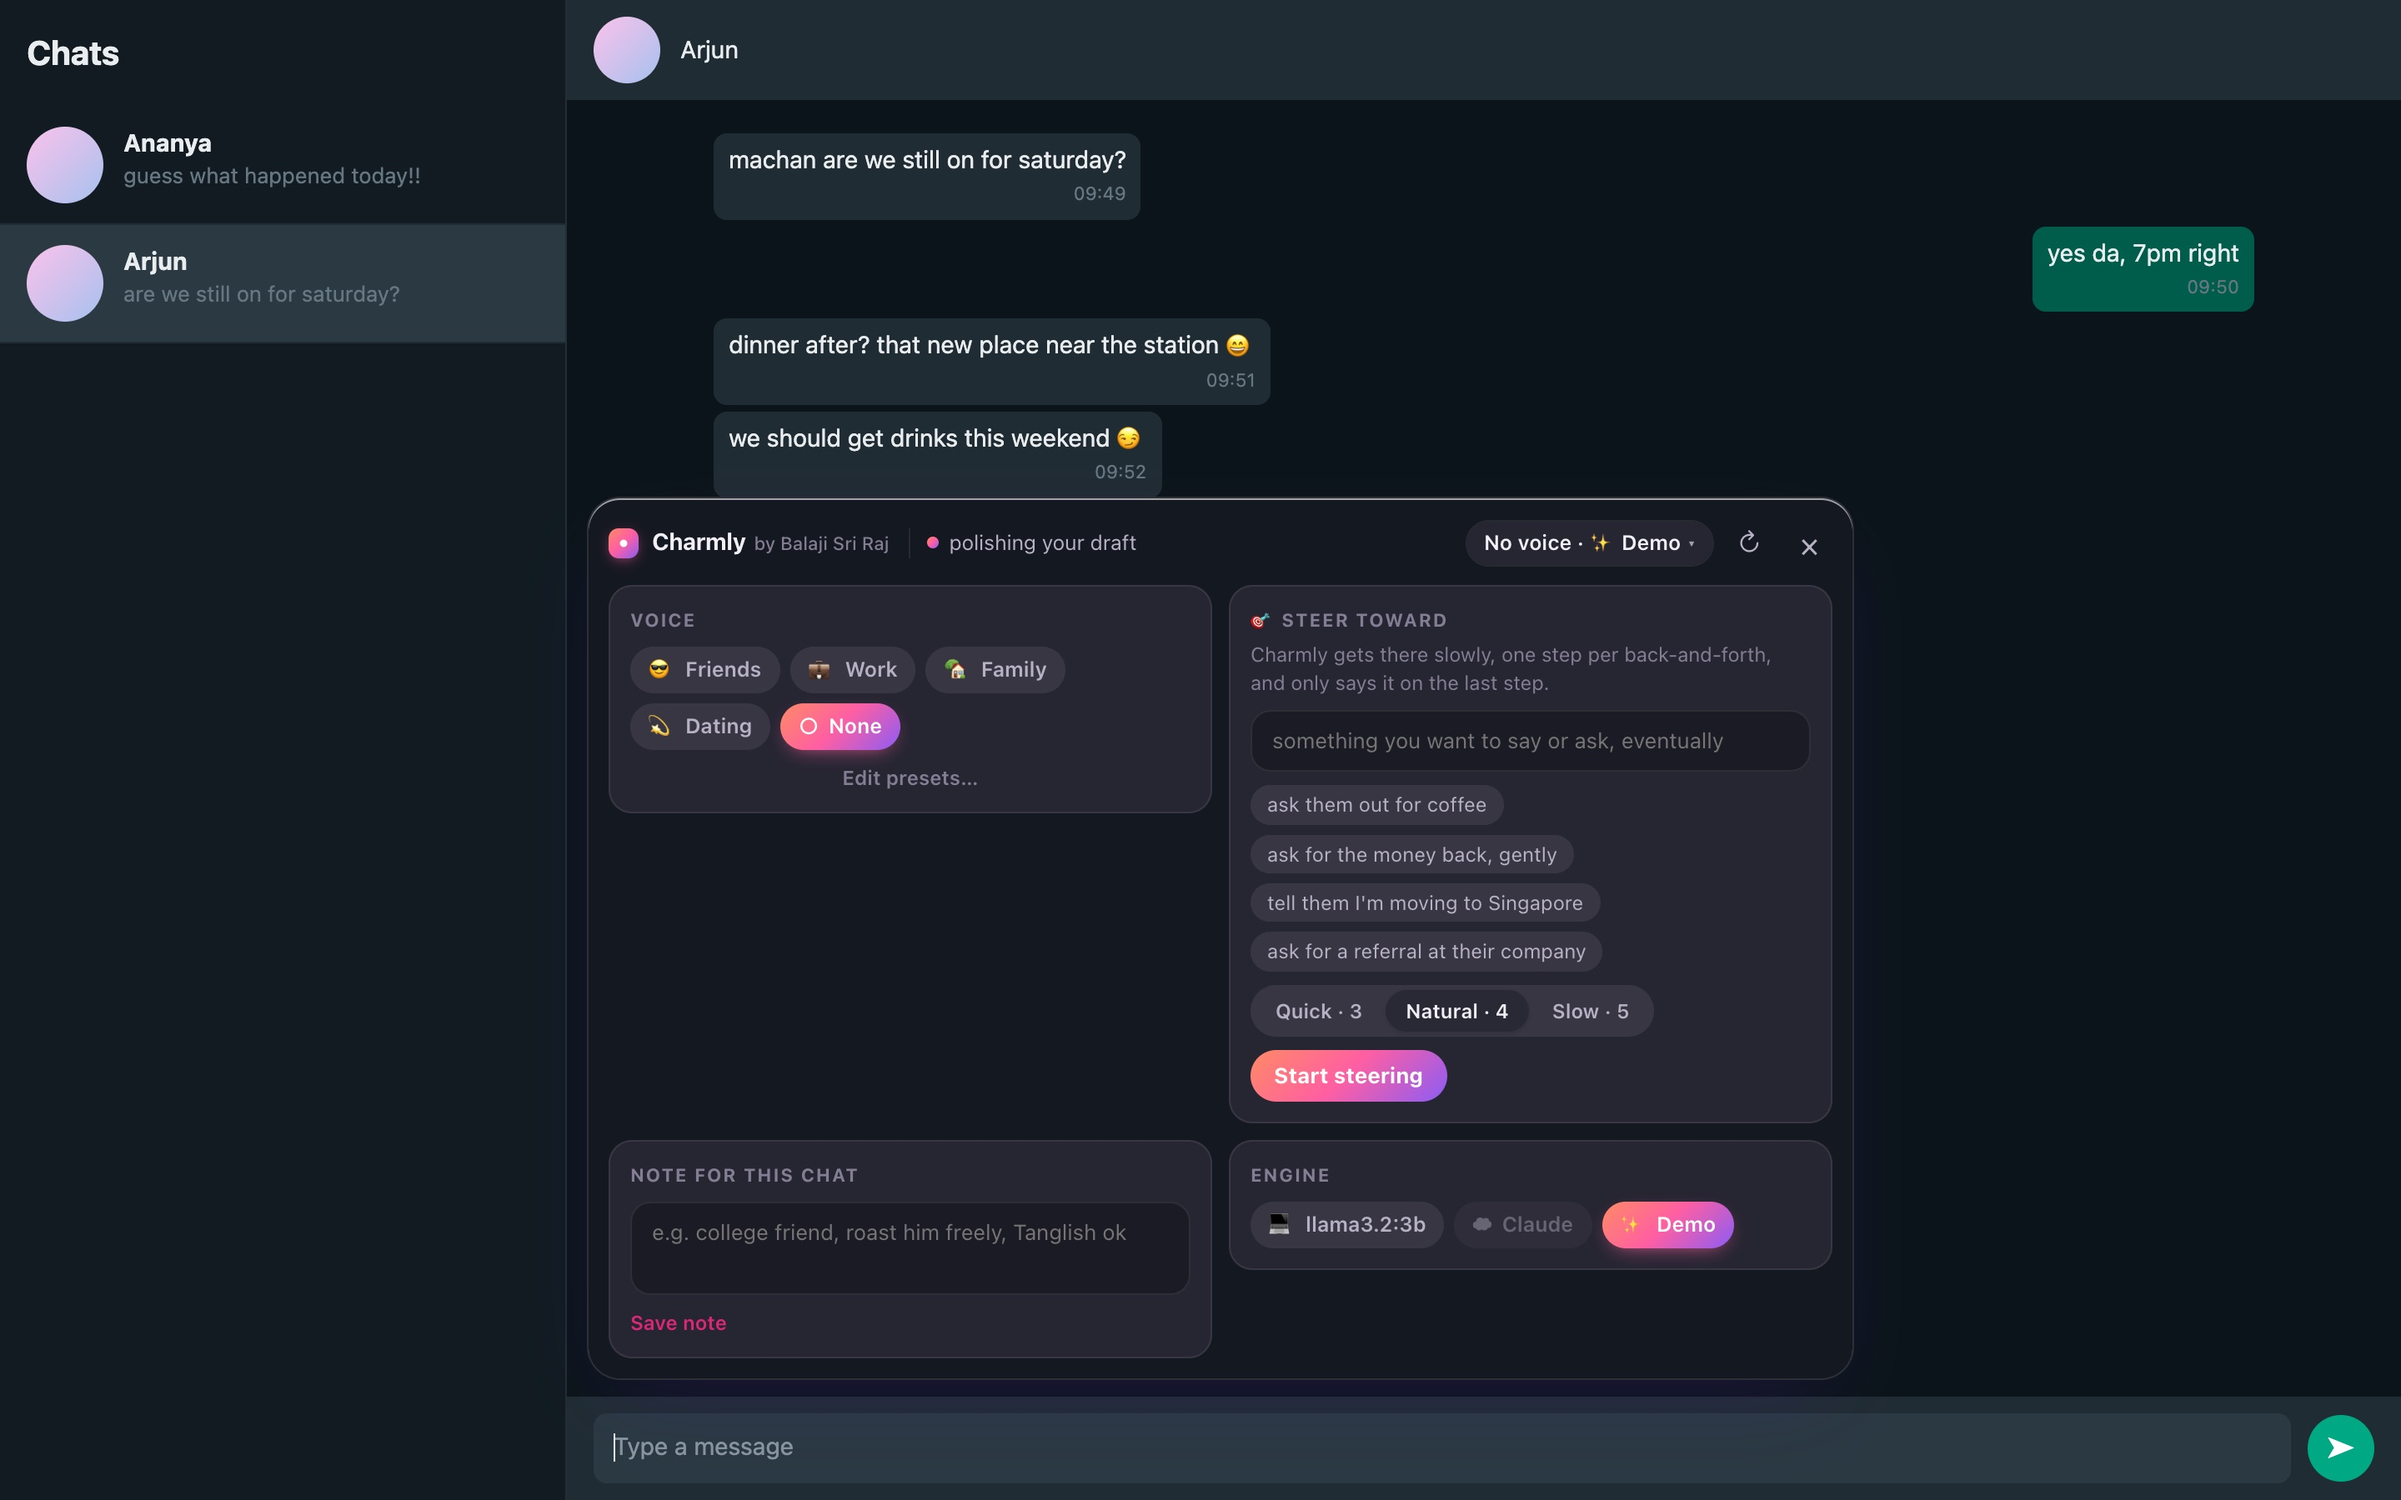
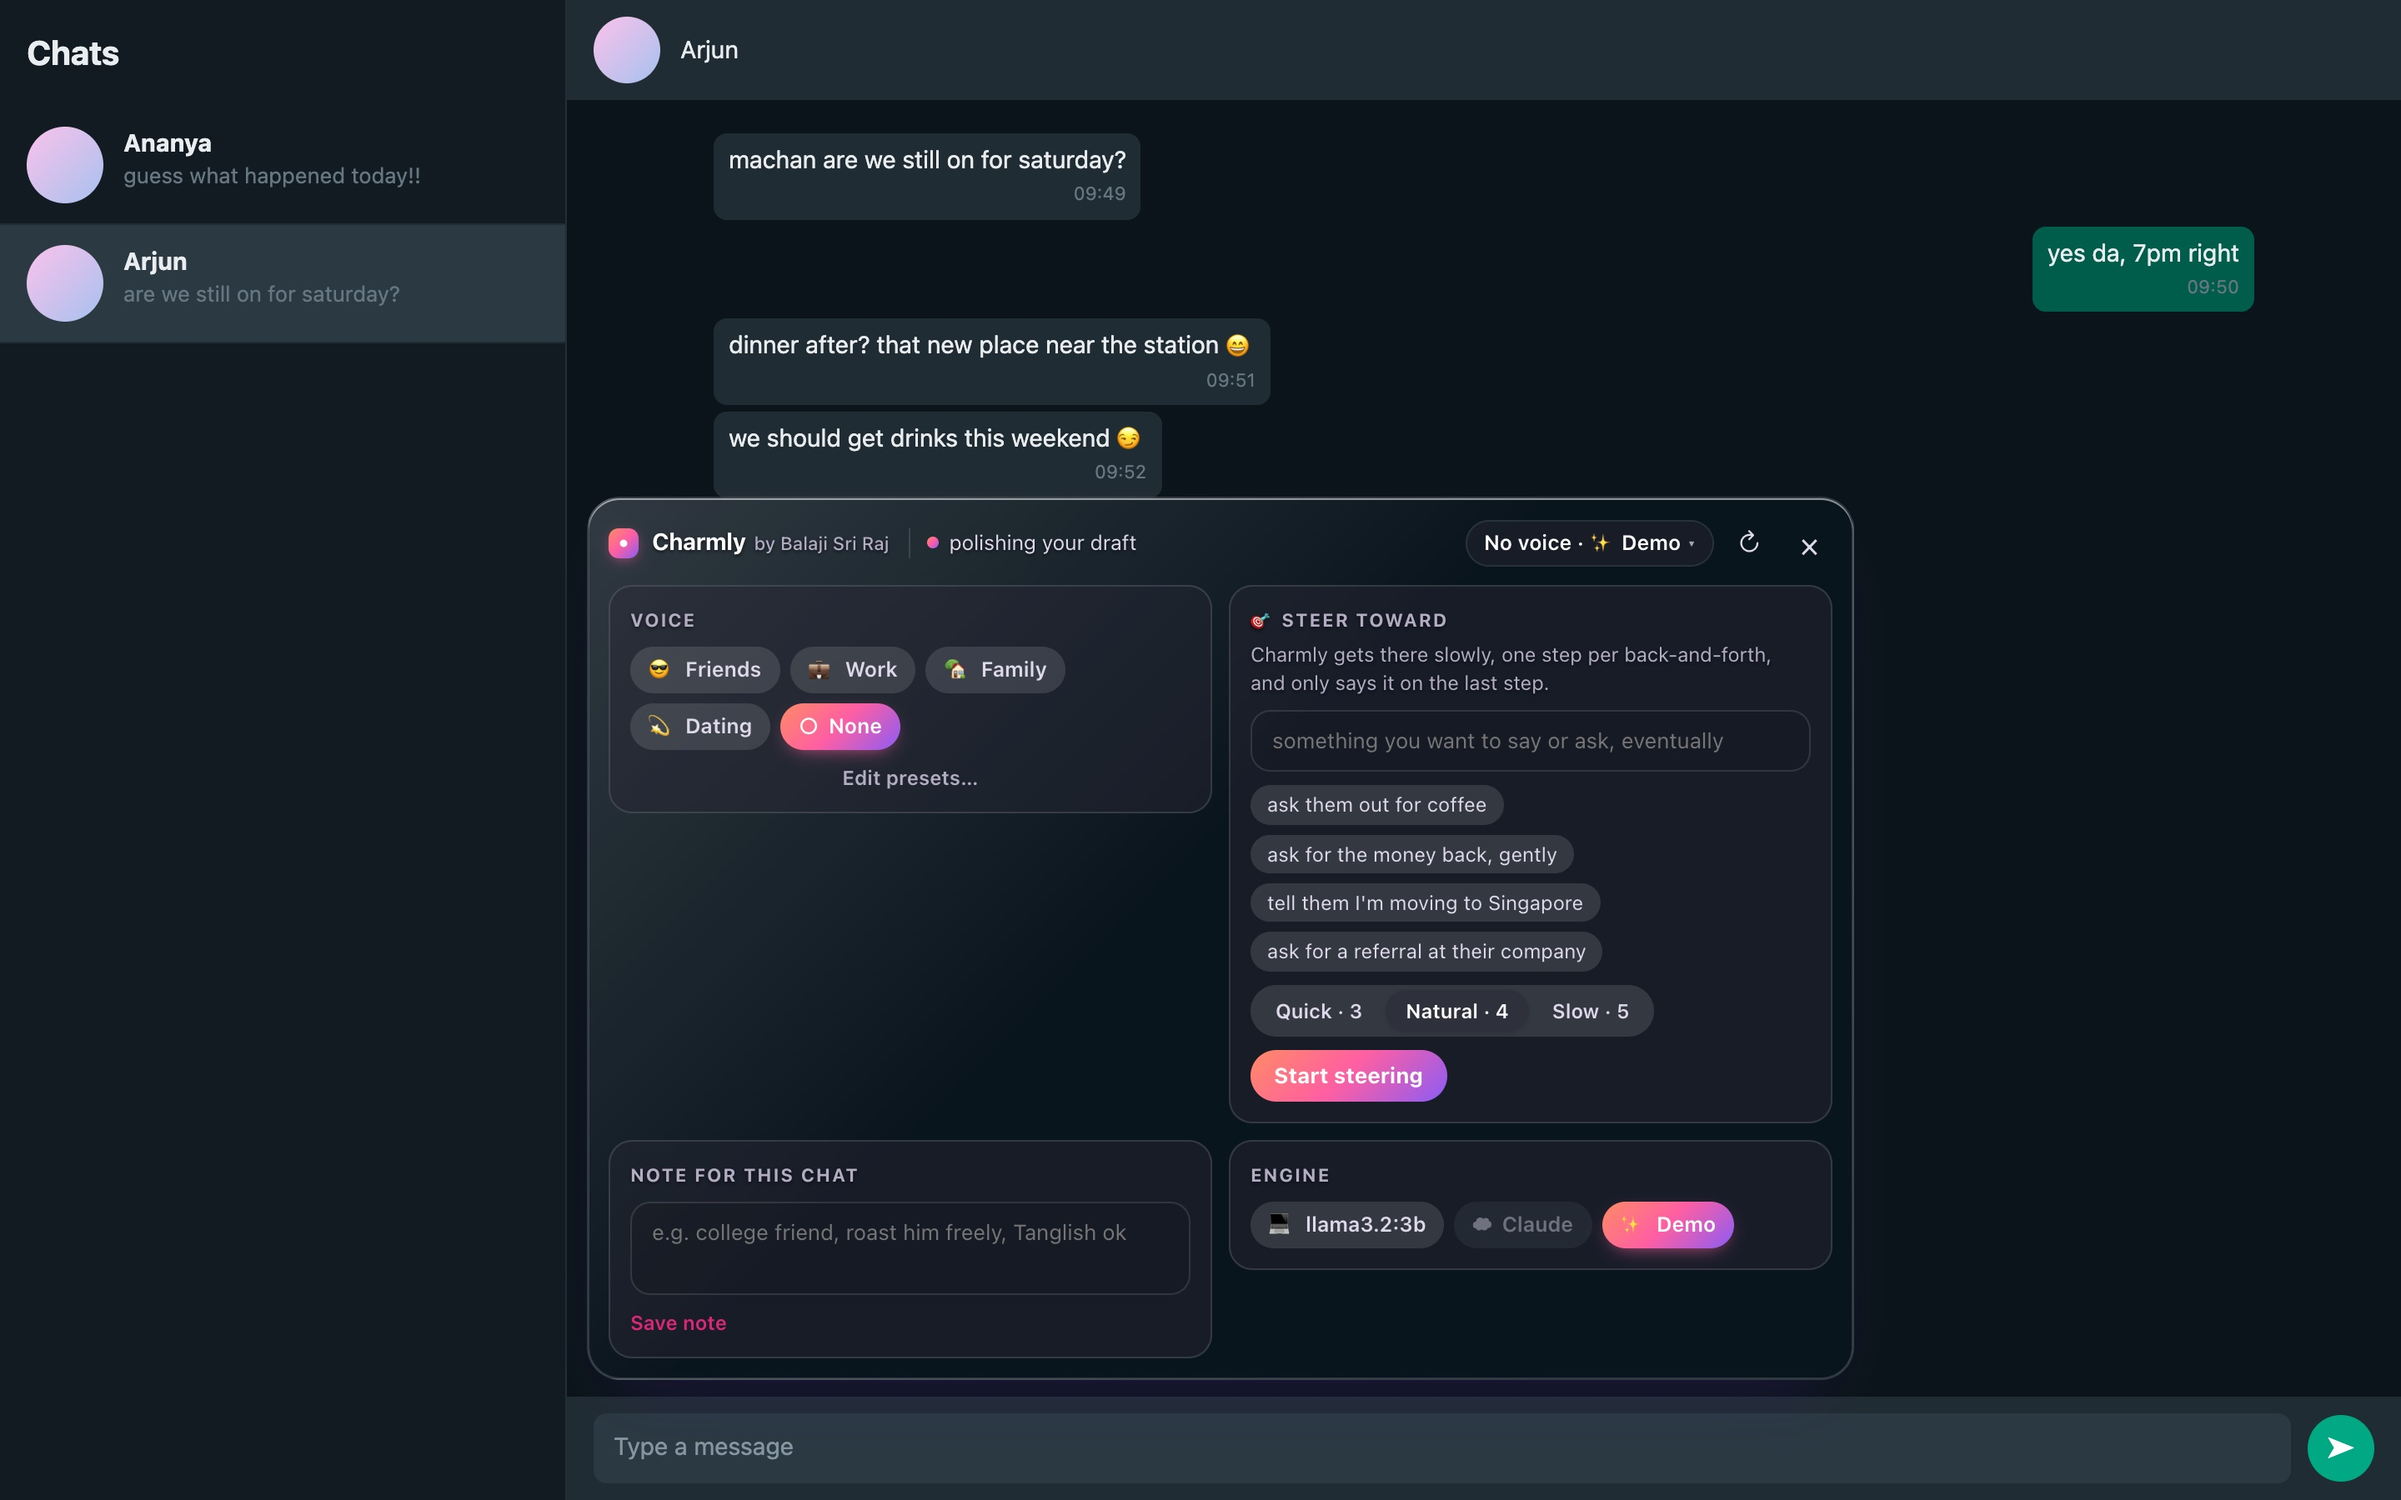
Clear glass tray, hold Alt to peek, and drop junk suggestion lines
- The tray is see-through: 1px blur, thin tint, highlight edge; firms up on hover. Messages behind stay readable
- Hold Alt on its own to fade the tray and read the chat behind it
- Parser drops a bare tone label like '(Flirty)' and the chat quoted back ('Them: ...'), and strips a 'Me:' prefix

diff --git a/extension/src/content/tray.css b/extension/src/content/tray.css
@@ -1,20 +1,31 @@
-/* Charmly's tray: warm glass with a coral → pink → violet accent. Follows WhatsApp's light and dark themes. */
+/*
+ * Charmly's tray: clear glass with a coral → pink → violet accent. Follows the page's light or dark theme.
+ * The glass is deliberately see-through (a light blur, a thin tint and a highlight edge), so the chat behind
+ * stays readable; it firms up a little while the pointer is over it, for reading the cards.
+ */
 :host { all: initial; }
 * { box-sizing: border-box; margin: 0; padding: 0; font: inherit; }
 .tray {
-  --glass: rgba(255, 255, 255, .78); --edge: rgba(255, 255, 255, .7); --ink: #1d1b24; --ink-2: #5f5a6e; --ink-3: #9a94aa;
-  --card: rgba(255, 255, 255, .86); --line: rgba(29, 27, 36, .08);
+  --glass: rgba(255, 255, 255, .26); --edge: rgba(255, 255, 255, .65); --ink: #15131c; --ink-2: #4a4558; --ink-3: #6f6a80;
+  --card: rgba(255, 255, 255, .46); --line: rgba(29, 27, 36, .1); --lift: 0 1px 1px rgba(255, 255, 255, .55);
   --grad: linear-gradient(135deg, #ff8a65 0%, #ff5fa2 48%, #8b5cf6 100%);
   position: fixed; display: block; font: 14px/1.45 -apple-system, BlinkMacSystemFont, "Segoe UI", Roboto, "Helvetica Neue", Arial, sans-serif;
   color: var(--ink); -webkit-font-smoothing: antialiased; letter-spacing: -.005em;
-  background: var(--glass); backdrop-filter: blur(22px) saturate(160%); -webkit-backdrop-filter: blur(22px) saturate(160%);
+  background: linear-gradient(135deg, rgba(255, 255, 255, .16), rgba(255, 255, 255, 0) 45%), var(--glass);
+  backdrop-filter: blur(1px) saturate(160%); -webkit-backdrop-filter: blur(1px) saturate(160%);
   border: 1px solid var(--edge); border-radius: 20px; padding: 12px;
-  box-shadow: 0 1px 0 rgba(255, 255, 255, .6) inset, 0 18px 50px -18px rgba(76, 29, 149, .35), 0 4px 14px -6px rgba(0, 0, 0, .18);
+  box-shadow: 0 1px 0 rgba(255, 255, 255, .5) inset, 0 0 0 .5px rgba(255, 255, 255, .15) inset, 0 18px 40px -22px rgba(76, 29, 149, .4);
+  text-shadow: var(--lift);
+  transition: background-color .25s, backdrop-filter .25s, opacity .18s;
 }
+/* Peek: hold Alt on its own and the tray fades away, so you can read the chat behind it. */
+.tray.peek { opacity: .06; pointer-events: none; }
+.tray:hover { --glass: rgba(255, 255, 255, .42); --card: rgba(255, 255, 255, .58); backdrop-filter: blur(6px) saturate(180%); -webkit-backdrop-filter: blur(6px) saturate(180%); }
+.tray.dark:hover { --glass: rgba(18, 18, 26, .5); --card: rgba(40, 39, 52, .52); }
 .tray.enter { animation: rise .28s cubic-bezier(.2, .9, .25, 1); }
 .tray.dark {
-  --glass: rgba(24, 24, 32, .78); --edge: rgba(255, 255, 255, .1); --ink: #f2f0f7; --ink-2: #b7b1c6; --ink-3: #847e95;
-  --card: rgba(40, 39, 52, .9); --line: rgba(255, 255, 255, .08);
+  --glass: rgba(18, 18, 26, .26); --edge: rgba(255, 255, 255, .16); --ink: #fff; --ink-2: #ddd8ea; --ink-3: #b3adc4;
+  --card: rgba(40, 39, 52, .42); --line: rgba(255, 255, 255, .12); --lift: 0 1px 2px rgba(0, 0, 0, .55);
 }
 .tray.pill:not(.with-sheet) { width: auto !important; padding: 6px 8px 6px 12px; border-radius: 999px; }
 button { cursor: pointer; border: 0; background: none; color: inherit; }
@@ -96,8 +107,9 @@ code { font: 11.5px ui-monospace, "SF Mono", Menlo, monospace; }
 .cards { display: grid; grid-template-columns: repeat(3, minmax(0, 1fr)); gap: 8px; }
 .card {
   position: relative; display: flex; flex-direction: column; gap: 6px; text-align: left; padding: 11px 12px 10px; border-radius: 14px;
-  background: var(--card); border: 1px solid var(--line); min-height: 96px;
-  transition: transform .15s, box-shadow .15s, border-color .15s;
+  background: var(--card); border: 1px solid var(--line); min-height: 78px;
+  box-shadow: 0 1px 0 rgba(255, 255, 255, .18) inset;
+  transition: transform .15s, box-shadow .15s, border-color .15s, background-color .25s;
 }
 .card.new, .card.skeleton { animation: rise .3s cubic-bezier(.2, .9, .25, 1) both; }
 button.card:hover { transform: translateY(-2px); box-shadow: 0 12px 26px -14px rgba(139, 92, 246, .55); border-color: #ff5fa255; }

diff --git a/extension/src/content/tray.ts b/extension/src/content/tray.ts
@@ -151,6 +151,11 @@ export class Tray {
     this.render(true);
   }
 
+  /** Peek through the tray at the chat behind it. */
+  peek(on: boolean) {
+    this.panel.classList.toggle("peek", on);
+  }
+
   markInserted(i: number) {
     this.inserted = i;
     this.render();
@@ -368,7 +373,7 @@ export class Tray {
           <div class="foot"><div class="tones" role="group" aria-label="Lead with">${tones}</div><span class="spacer"></span>${held}${polish}</div>`;
       }
     }
-    const keep = ["dark", "enter"].filter((c) => this.panel.classList.contains(c));
+    const keep = ["dark", "enter", "peek"].filter((c) => this.panel.classList.contains(c));
     this.panel.className = ["tray", s.kind, this.sheet ? "with-sheet" : "", ...keep].filter(Boolean).join(" ");
     this.panel.innerHTML = body;
     this.shown = s.kind === "loading" || s.kind === "ready" ? s.suggestions.length : 0;

diff --git a/extension/src/content/index.ts b/extension/src/content/index.ts
@@ -309,10 +309,25 @@ function start() {
     });
   }
 
+  // Peek: hold Alt on its own (no other key) and the tray fades so you can read the chat behind it.
+  let peekTimer: number | undefined;
+  const endPeek = () => {
+    clearTimeout(peekTimer);
+    peekTimer = undefined;
+    tray.peek(false);
+  };
+  document.addEventListener("keyup", (e) => e.key === "Alt" && endPeek(), true);
+  window.addEventListener("blur", endPeek);
+
   document.addEventListener(
     "keydown",
     (e) => {
       if (!settings.enabled) return;
+      if (e.key === "Alt") {
+        if (tray.open && !e.repeat && peekTimer === undefined) peekTimer = window.setTimeout(() => tray.peek(true), 350);
+        return;
+      }
+      if (peekTimer !== undefined) endPeek();
       if (e.key === "Escape" && tray.open) {
         pill();
         return;

diff --git a/extension/src/shared/parse.ts b/extension/src/shared/parse.ts
@@ -37,8 +37,13 @@ export class LineParser {
     return this.count;
   }
 
-  private emit(tone: string, text: string, why: string) {
+  private emit(tone: string, raw: string, why: string) {
     if (this.count >= this.max) return;
+    // Small models sometimes quote the chat back ("Them: 😊"), label a line as "Me: …", or write only the tone.
+    if (/^them\s*:/i.test(raw)) return;
+    const text = raw.replace(/^(me|you)\s*:\s*/i, "").trim();
+    if (!/[\p{L}\p{N}]/u.test(text.replace(/\[[^\]]*\]/g, "")) && text.length < 3) return;
+    if (/^[([{]?\s*(warm|playful|flirty|direct|tone|reply)\s*[)\]}]?\.?$/i.test(text)) return;
     this.onSuggestion({ n: ++this.count, tone: tone.toLowerCase(), text, why });
   }
 

diff --git a/extension/test/core.test.ts b/extension/test/core.test.ts
@@ -255,6 +255,16 @@ describe("filter and parser edge cases", () => {
   });
 });
 
+describe("junk lines", () => {
+  it("drops a bare tone label and the chat quoted back, keeps real replies", () => {
+    const out: Suggestion[] = [];
+    const p = new LineParser(() => {}, (x) => out.push(x));
+    p.push("1|warm|(Flirty)|why\n2|direct|Them: 😊|why\n3|playful|Me: anything sounds good with you 😏|fun\n");
+    p.end();
+    expect(out.map((x) => x.text)).toEqual(["anything sounds good with you 😏"]);
+  });
+});
+
 describe("extra fields", () => {
   it("keeps a small model's extra label out of the reply", () => {
     const out: Suggestion[] = [];

diff --git a/README.md b/README.md
@@ -14,11 +14,11 @@ Charmly is a Chrome extension for WhatsApp Web, and for any other messaging site
 - **Tones on tap.** Warm, Playful, Direct, and Flirty (opt-in) chips change which kind of reply leads. Charmly names the three tones to write, in order, so the one you tap always comes first, and in flirt mode a flirty option stays in the mix.
 - **Steer toward what you want to say.** Some things are better reached than blurted: asking someone out, asking for money back, telling a friend you're moving. Set a goal and a pace (3, 4 or 5 exchanges), and Charmly drives the chat there slowly: one step per back-and-forth, and it only says it on the last step. [More below](#steer).
 - **Polish my draft.** Start typing your own reply, whether the tray is tucked away or showing suggestions, and Charmly offers to polish it in your voice.
-- **Keyboard first.** `Alt+1/2/3` inserts a suggestion, `Alt+R` regenerates, `Alt+P` polishes your draft, `Esc` tucks the tray away.
+- **Keyboard first.** `Alt+1/2/3` inserts a suggestion, `Alt+R` regenerates, `Alt+P` polishes your draft, `Esc` tucks the tray away. Hold `Alt` on its own to peek: the tray fades away so you can read the chat behind it.
 - **One chip for everything about a chat.** The tray has one line of context: the vibe, plus a chip summing up this chat's setup ("😎 Friends · 💻 llama3.2:3b"). The chip opens a single sheet with the voice preset, the goal, a note and the engine. A thin goal strip shows only while you're steering.
 - **Voice presets.** Tell Charmly who you are and how you talk in each kind of chat: what to always do, what never to do, and words it must never use. Four editable starters ship (😎 Friends, 💼 Work, 🏡 Family, 💫 Dating), and you can add your own. Switch presets from the tray's sheet, which also holds a note for the chat ("my manager: keep it brief"). Charmly remembers both per chat.
 - **Three engines, switchable in the chat.** The sheet lists your installed local models, plus Claude and Demo. **On-device** runs a small model on your laptop through [Ollama](https://ollama.com), so your chats never leave the machine. **Claude** gives the best quality with your Anthropic key. **Demo** lets you try the experience with built-in samples.
-- **Native feel.** A glass tray docked above the message box that follows WhatsApp's light or dark theme, measured from the page itself rather than the system setting.
+- **Clear glass, not a wall.** The tray is see-through glass: a 1px blur, a thin tint and a highlight edge, so the messages behind it stay readable. It firms up a little while your pointer is over it. It follows the page's light or dark theme, measured from the page itself rather than the system setting.
 
 <p align="center"><img src="docs/suggestions-dark.jpg" width="68%" alt="Dark theme" /> &nbsp; <img src="docs/popup.png" width="24%" alt="The popup: switches, tone, API key, demo mode, your voice" /></p>
 
@@ -172,6 +172,8 @@ pnpm e2e                      # the real extension in Chrome, on a local chat pa
   ✓ nothing is sent automatically
   ✓ confirms the insert and hands control back
   ✓ Alt+2 inserts the second option
+  ✓ holding Alt peeks through the tray
+  ✓ letting go brings it back
   ✓ Escape tucks the tray away
   ✓ offers to polish the draft you have
   ✓ notices they may want space
